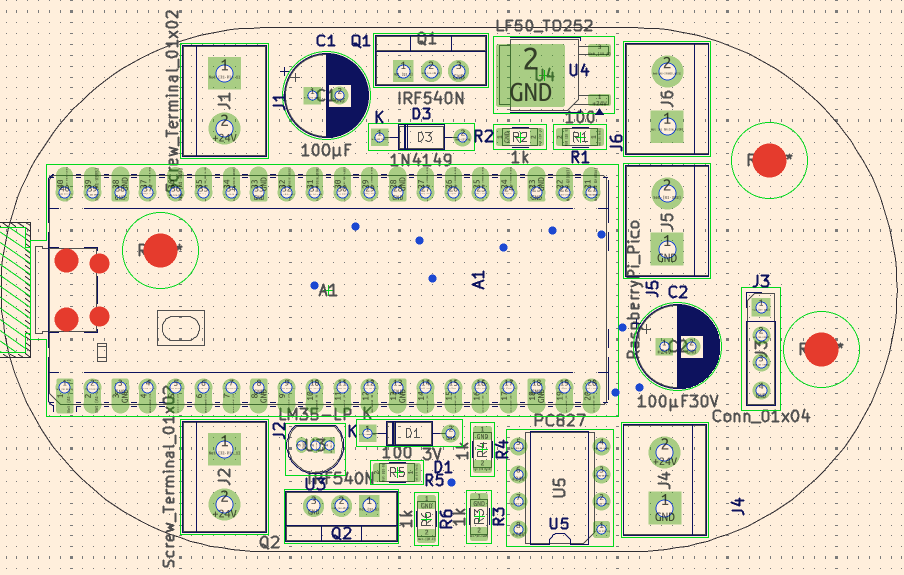
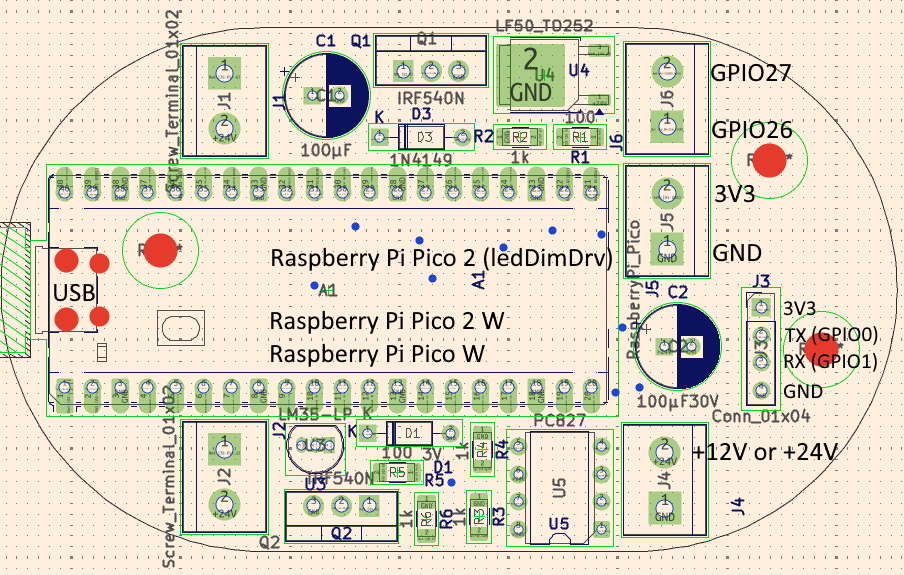
Readme and doc images update.

diff --git a/pico2/htControl/README.md b/pico2/htControl/README.md
@@ -1,21 +1,55 @@
-## MicroPython project for the Pico 2 W device  
+# MicroPython project for the Pico 2 W device  
 Tiny IoT prosjects  
-### htControll
+## htControll
 __Indoor humidity and temperature control__  
 htControl is a RPi Pico w MicroPython project which is to monitor humidity and temperature by the use of a simple humidity and temperature sensor.  
 The plan is to control a dehumidifier and heater to prevent freezing temperature within a indoor environment.  
 
-### Hardware brief
-Based on Raspberry Pi Pico board mounted on a I/O controller board for interfacing sensors and actuators.
-...more will be added...
+## Hardware brief
+Based on Raspberry Pi Pico board mounted on a I/O controller board for interfacing sensors and actuators.  
+
+<img src="./docs/AssemblyGuide.png" height="350">  
+Circuit board outline and component placements
+
+Circuit board schematics
+Circuit board outline and component placements
+
 Humidity and temperature monitoring for indoor humidity and temperature control,
 by the use of AOSONG AM2320 temperature and humidity i2c sensor, and a simple 
 high-level driver in am2320.py.
 
-### i2c connection for the AM2320 on Pico 2 W
-SDA to Pico 2 W GPIO 26  
-SCL to Pico 2 W GPIO 27  
-VDD to 3.3V  
-GND to ground  
+### i2c connection for the AM2320 on Pico 2 W  
+The following screw-terminals on the PCB is used for the humidity and temperature sensor:  
+- SDA to Pico 2 W GPIO 26 @screw-terminal#1 on __J6__  
+- SCL to Pico 2 W GPIO 27 @screw-terminal#2 on __J6__  
+- VDD to 3.3V	@screw-terminal#2 on __J5__  
+- GND to ground	@screw-terminal#1 on __J5__  
+- A 5.6 kΩ pull-up resistor between VDD and SDA and SCL.  
 
-A 4.7kΩ pull-up resistor between VDD and SDA and SCL.  
+### Monitor and configuration option via Pico UART
+To monitor and change system configuration, the board provides a simple UART serial port pin header connector (__J3__), which is wired to Pico's UART0 pins GPIO0 (TX) and GPIO1 (RX).  
+The serial port is set to 9600 baud with 1 start-bit, 1 stop-bit and no parity.  
+Note that:  
+- pin#1 = 3V3
+- pin#2 = TX
+- pin#3 = RX
+- pin#4 = GND  
+
+## Software brief
+The software that provides and supports the overall functionality is assembled by a set of Python scripts.  
+
+### MicroPyton for Raspberry Pi Pico
+The MicroPython Firmware for Raspberry Pi Pico 2 W is downloaded from https://micropython.org/download/RPI_PICO2_W/  
+
+
+### AM2320 drivers
+Luckely a driver for the AOSONG AM2320 temperature and humidity i2c sensor, was available ...  
+
+
+
+
+### HTTP POST 
+### Temperature and humidity visualization 
+
+### Tests?  
+more TBD.
